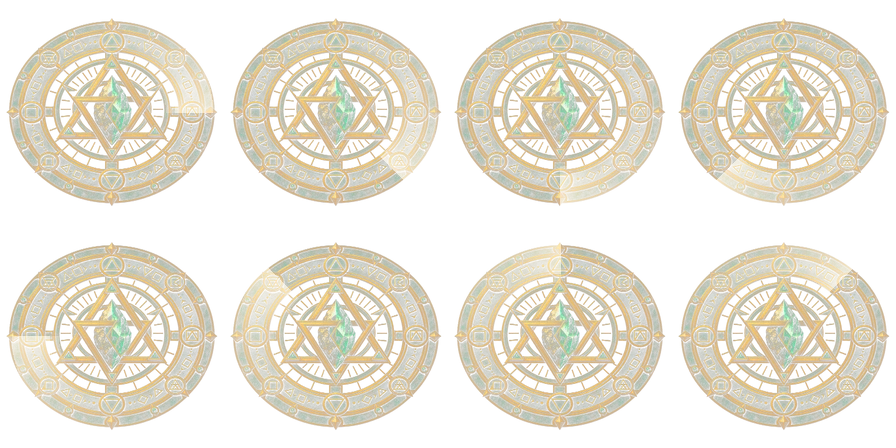
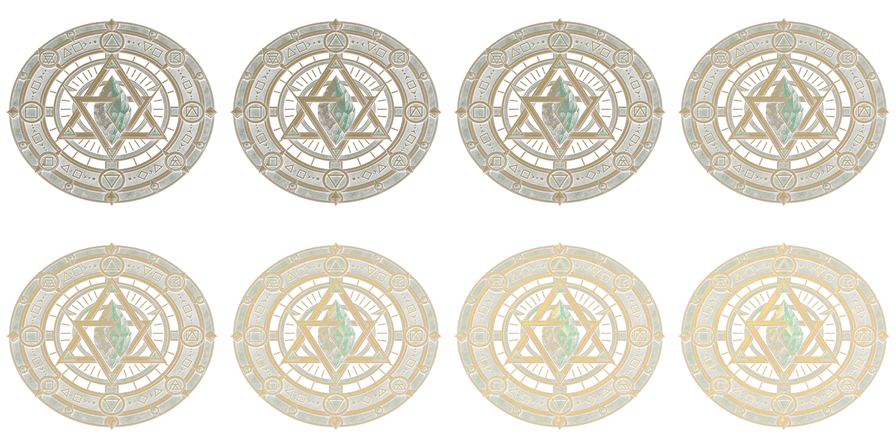
transmutation holds still: it fades up, glows, then the whirlwind
Sam: "it just goes from being transparent to slowly visible and glowing
and then the whirlwind shows. No spinning arcane sigil."

`still` on SigilArt, defaulting to turning because that is what every
other school does. Three things follow from it, all in sigilPoseAt
rather than the renderer, which already resets rotation each frame and
so needs no change:

SPIN IS HELD AT ZERO in every act and both outcomes.

THE PLUME WAITS. flame stayed at ease(p) through form, so the whirlwind
rose through a ring that was still fading in and the ring never got its
moment. For a still sigil it is nothing until the ring is 60% up, then
it climbs through the rest of the act -- the sequence Sam described,
rather than the two arriving together.

THE FADE GETS THE WHOLE FORM ACT instead of being over by the 45% mark.
With no rotation to watch, the fade IS the entrance.

--glow bakes the ring as a ramp from dim to full heat instead of a
travelling chase, so the art itself warms up while the renderer fades it
in. It blends toward hot rather than scaling RGB, the same correction
the chase needed: multiplying clips red first on a warm palette and
slides the whole thing yellow-green. loop: false with peak on the last
frame, so it parks lit rather than cycling back to dim.

Four tests cover it: registered still while the turning schools are not,
spin exactly zero across 40 samples in both outcomes, the plume held at
zero early and past 0.4 by the end of form, and a turning school still
turning.
[…]

diff --git a/lib/target-sigil.ts b/lib/target-sigil.ts
@@ -81,7 +81,8 @@ export const SCHOOL_SIGIL: Partial<Record<MagicSchool, SigilArt>> = {
   // wind" instead of fire, which suits the school better anyway: matter
   // lifted and turned rather than burned.
   transmutation: { ring: "sigilTransmutationRing", plume: "sigilTransmutationPlume",
-                 motes: MOTES, burst: BURST, tint: SCHOOL_RAMP.transmutation.glow },
+                 motes: MOTES, burst: BURST, tint: SCHOOL_RAMP.transmutation.glow,
+                 still: true },
 }
 
 /** Sheets by damage type, for spells whose school is unknown. */
@@ -143,6 +144,21 @@ export interface SigilArt {
    * thing to forget to update.
    */
   tint?: number
+  /**
+   * The ring does NOT turn: it fades up, glows, and holds still while the
+   * plume rises out of it (Sam, 2026-09-29, of transmutation: "it just goes
+   * from being transparent to slowly visible and glowing and then the
+   * whirlwind shows. No spinning arcane sigil").
+   *
+   * Two things follow, and both are in sigilPoseAt rather than the renderer:
+   * the spin is held at zero, and the plume is held back until the ring is
+   * lit, so the two read as a sequence rather than arriving together. Without
+   * the delay the whirlwind rises through a ring that is still fading in, and
+   * the ring never gets its moment.
+   *
+   * Defaults to turning, because that is what every other school does.
+   */
+  still?: boolean
 }
 
 export interface SigilPlan {
@@ -323,15 +339,22 @@ export function sigilPoseAt(
     return {
       act: "form",
       frame: peakP * p,
-      opacity: ease(clamp01(t / (form * 0.45))),
+      // A still sigil takes the WHOLE form act to come up, instead of being
+      // there by the 45% mark: with no rotation to watch, the fade IS the
+      // entrance, so it gets the full beat.
+      opacity: ease(clamp01(plan.art.still ? p : t / (form * 0.45))),
       // Drops onto them from slightly large, which reads as landing rather
       // than as growing out of the floor.
       scale: 1.35 - 0.35 * ease(p),
-      spin: -formSweep(form, p),
+      spin: plan.art.still ? 0 : -formSweep(form, p),
       // The plume is still gathering: it rises but has not spread yet.
       radiate: 0.55 + 0.45 * ease(p),
       permeate: 0,
-      flame: outcome === "taken" ? ease(p) : 0,
+      // The plume waits for a still ring: nothing until the ring is most of
+      // the way up, then it climbs through the rest of the act.
+      flame: outcome === "taken"
+        ? ease(plan.art.still ? clamp01((p - 0.6) / 0.4) : p)
+        : 0,
       burst: -1,
       struck: false,
     }
@@ -344,7 +367,7 @@ export function sigilPoseAt(
       opacity: 1,
       // A slow breath so the hold is alive rather than a freeze-frame.
       scale: 1 + 0.03 * Math.sin(p * TAU * 1.5),
-      spin: -(formSweep(form, 1) + holdSweep(hold, p)),
+      spin: plan.art.still ? 0 : -(formSweep(form, 1) + holdSweep(hold, p)),
       // Breathing outward and soaking in while they roll.
       radiate: 1 + 0.10 * Math.sin(p * TAU),
       permeate: outcome === "taken" ? 0.35 + 0.15 * Math.sin(p * TAU * 1.5) : 0,
@@ -363,7 +386,7 @@ export function sigilPoseAt(
       // Taken flares before it fades; warded just thins out.
       opacity: taken ? Math.min(1, 1.25 - p) : 1 - ease(p),
       scale: taken ? 1 - 0.30 * ease(p) : 1 + 0.85 * ease(p),
-      spin: -(formSweep(form, 1) + holdSweep(hold, 1) + resolveSweep(resolve, p, taken)),
+      spin: plan.art.still ? 0 : -(formSweep(form, 1) + holdSweep(hold, 1) + resolveSweep(resolve, p, taken)),
       // TAKEN drives inward and through them; WARDED blows outward off them.
       radiate: taken ? 1 - 0.35 * ease(p) : 1 + 1.5 * ease(p),
       permeate: taken ? Math.min(1, 0.5 + ease(p)) : 0,
@@ -379,7 +402,7 @@ export function sigilPoseAt(
     frame: 1,
     opacity: 0,
     scale: taken ? 0.70 : 1.85,
-    spin: -(formSweep(form, 1) + holdSweep(hold, 1) + resolveSweep(resolve, 1, taken)),
+    spin: plan.art.still ? 0 : -(formSweep(form, 1) + holdSweep(hold, 1) + resolveSweep(resolve, 1, taken)),
     radiate: taken ? 0.65 : 2.5,
     permeate: taken ? 1 : 0,
     flame: 0,

diff --git a/lib/target-sigil.test.ts b/lib/target-sigil.test.ts
@@ -360,3 +360,42 @@ describe("the strike frame", () => {
     expect(sigilStrikeAt(PLAN)).toBeLessThan(sigilDuration(PLAN))
   })
 })
+
+describe("a still sigil — transmutation's ring does not turn", () => {
+  const plan = targetSigilFor({ resolve: "save", school: "transmutation", damage: "radiant" })!
+
+  it("is registered still, and the turning schools are not", () => {
+    expect(SCHOOL_SIGIL.transmutation?.still).toBe(true)
+    for (const s of ["necromancy", "enchantment", "illusion", "evocation"] as const) {
+      expect(SCHOOL_SIGIL[s]?.still, s).toBeFalsy()
+    }
+  })
+
+  it("never turns, in any act or outcome", () => {
+    const total = plan.form + plan.hold + plan.resolve
+    for (const outcome of ["taken", "warded"] as const) {
+      for (let i = 0; i <= 40; i++) {
+        const t = (total * 1.1 * i) / 40
+        expect(sigilPoseAt(t, plan, outcome, 0.5).spin, `${outcome} @${t.toFixed(2)}`).toBe(0)
+      }
+    }
+  })
+
+  it("holds the whirlwind back until the ring is lit — the point of the change", () => {
+    // Sam: "transparent to slowly visible and glowing and THEN the whirlwind
+    // shows." Without the delay the plume rises through a ring that is still
+    // fading in and the ring never gets its moment.
+    const early = sigilPoseAt(plan.form * 0.3, plan, "taken", 0.5)
+    expect(early.opacity).toBeGreaterThan(0)     // the ring is coming up
+    expect(early.flame).toBe(0)                  // and nothing is rising yet
+    const late = sigilPoseAt(plan.form * 0.98, plan, "taken", 0.5)
+    expect(late.flame).toBeGreaterThan(0.4)      // by the end of form it is there
+  })
+
+  it("still fades in, and a turning school still turns", () => {
+    expect(sigilPoseAt(0, plan, "taken", 0.5).opacity).toBeLessThan(0.05)
+    expect(sigilPoseAt(plan.form, plan, "taken", 0.5).opacity).toBeGreaterThan(0.9)
+    const spun = targetSigilFor({ resolve: "save", school: "evocation", damage: "fire" })!
+    expect(sigilPoseAt(spun.form * 0.8, spun, "taken", 0.5).spin).toBeLessThan(0)
+  })
+})

diff --git a/scripts/vfx/bake_school_sigil.py b/scripts/vfx/bake_school_sigil.py
@@ -139,6 +139,41 @@ def bake_ring(clean: np.ndarray, top: int, centre: int, ratio: float, cell: int,
     return circle.resize((cell, cell), Image.LANCZOS)
 
 
+def glow_ring(ring: Image.Image, count: int, cols: int, lift: float) -> Image.Image:
+    """
+    The ring simply comes up and glows, with no travelling head (Sam,
+    2026-09-29: "no spinning arcane sigil").
+
+    The alternative to --chase, for a school whose sigil holds still. The
+    renderer already fades opacity in across the form act; this is the second
+    half of that entrance — the art itself heating up from dim to full — so
+    the ring arrives rather than merely appearing.
+
+    Blends toward hot rather than scaling RGB, for the same reason the chase
+    does: multiplying clips the red channel first on a warm palette and slides
+    the whole thing yellow-green.
+
+    Only LIT pixels lift. The alpha is keyed off luminance, so raising the
+    black field would gain coverage and start occluding the board.
+    """
+    w, h = ring.size
+    a = np.asarray(ring).astype(np.float32)
+    hot = np.array([255.0, 233.0, 176.0])
+    rows = (count + cols - 1) // cols
+    sheet = Image.new("RGBA", (cols * w, rows * h), (0, 0, 0, 0))
+    for i in range(count):
+        k = i / max(1, count - 1)
+        # Ease in, so the last frames hold near full glow instead of the whole
+        # ramp being over in the first third.
+        e = k * k * (3 - 2 * k)
+        rgbf = a[..., :3]
+        frame = a.copy()
+        frame[..., :3] = np.clip(rgbf * (0.55 + 0.45 * e)
+                                 + (hot - rgbf) * (lift * e * 0.45), 0, 255)
+        sheet.paste(Image.fromarray(frame.astype(np.uint8), "RGBA"), ((i % cols) * w, (i // cols) * h))
+    return sheet
+
+
 def glyph_band(ring: Image.Image) -> tuple[float, float]:
     """
     Radii (as a fraction of the half-cell) of the annulus the glyphs sit in.
@@ -517,6 +552,8 @@ def main() -> None:
     ap.add_argument("--frames", type=int, default=12)
     ap.add_argument("--cols", type=int, default=4)
     ap.add_argument("--colors", type=int, default=8, help="flame ramp steps")
+    ap.add_argument("--glow", type=int, default=0, metavar="N",
+                    help="ring frames that fade up and glow instead of chasing; for a still sigil")
     ap.add_argument("--chase", type=int, default=12, metavar="N",
                     help="ring frames with a travelling glow; 1 = a static ring")
     ap.add_argument("--chase-lift", type=float, default=0.75, metavar="0..1",
@@ -551,7 +588,9 @@ def main() -> None:
     burst = (bake_burst(a.burst, pal, a.burst_cell, a.cols, a.burst_frames, a.sparks, a.seed)
              if a.burst else None)
     ring = bake_ring(clean, top, centre, ratio, a.ring_cell, a.floor, a.gain)
-    ring_sheet = ring if a.chase <= 1 else chase_ring(ring, a.chase, a.cols, a.chase_lift, a.chase_arc)
+    ring_sheet = (glow_ring(ring, a.glow, a.cols, a.chase_lift) if a.glow > 1
+                  else ring if a.chase <= 1
+                  else chase_ring(ring, a.chase, a.cols, a.chase_lift, a.chase_arc))
     plume = (plume_from_art(a.plume_art, pal, a.plume_w, a.plume_h, a.cols, a.frames, a.recolor)
              if a.plume_art else
              whirlwind(pal, a.plume_w, a.plume_h, a.px, a.cols, a.frames, a.rocks, a.seed)
@@ -566,7 +605,7 @@ def main() -> None:
         print(f"       ring will read {'rounder' if ratio > BOARD_RATIO else 'flatter'} on the board than in the source.")
     print("  flame ramp    " + " ".join("#%02X%02X%02X" % tuple(int(v) for v in c) for c in pal))
     print(f"  ring          coverage {coverage(ring_sheet):4.1f}%"
-          + ("" if a.chase <= 1 else
+          + (f"   glow-up {a.glow} frames" if a.glow > 1 else "" if a.chase <= 1 else
              f"   chase {a.chase} frames, glyph band r={glyph_band(ring)[0]:.2f}-{glyph_band(ring)[1]:.2f}"))
     print(f"  plume         coverage {coverage(plume):4.1f}%   ({a.plume_w // a.px}x{a.plume_h // a.px} px art)")
     if burst is not None:
@@ -597,6 +636,8 @@ def main() -> None:
     entries = {}
     for suffix, im, meta in (
         ("Ring", ring_sheet,
+         {"cols": a.cols, "rows": (a.glow + a.cols - 1) // a.cols, "frames": a.glow,
+          "fps": 12, "loop": False, "peak": a.glow - 1} if a.glow > 1 else
          {"cols": 1, "rows": 1, "frames": 1, "fps": 1, "loop": False, "peak": 0} if a.chase <= 1 else
          {"cols": a.cols, "rows": (a.chase + a.cols - 1) // a.cols, "frames": a.chase,
           "fps": 12, "loop": True}),
